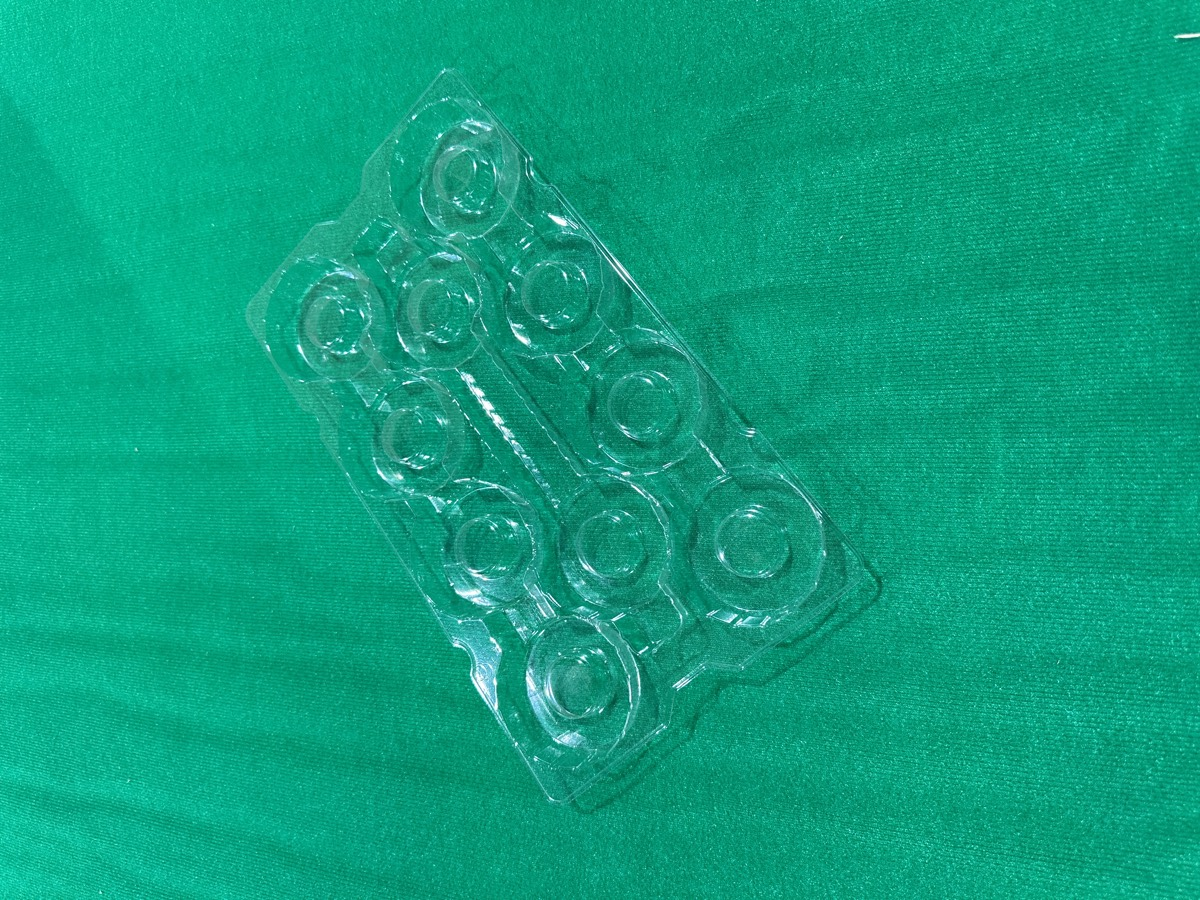
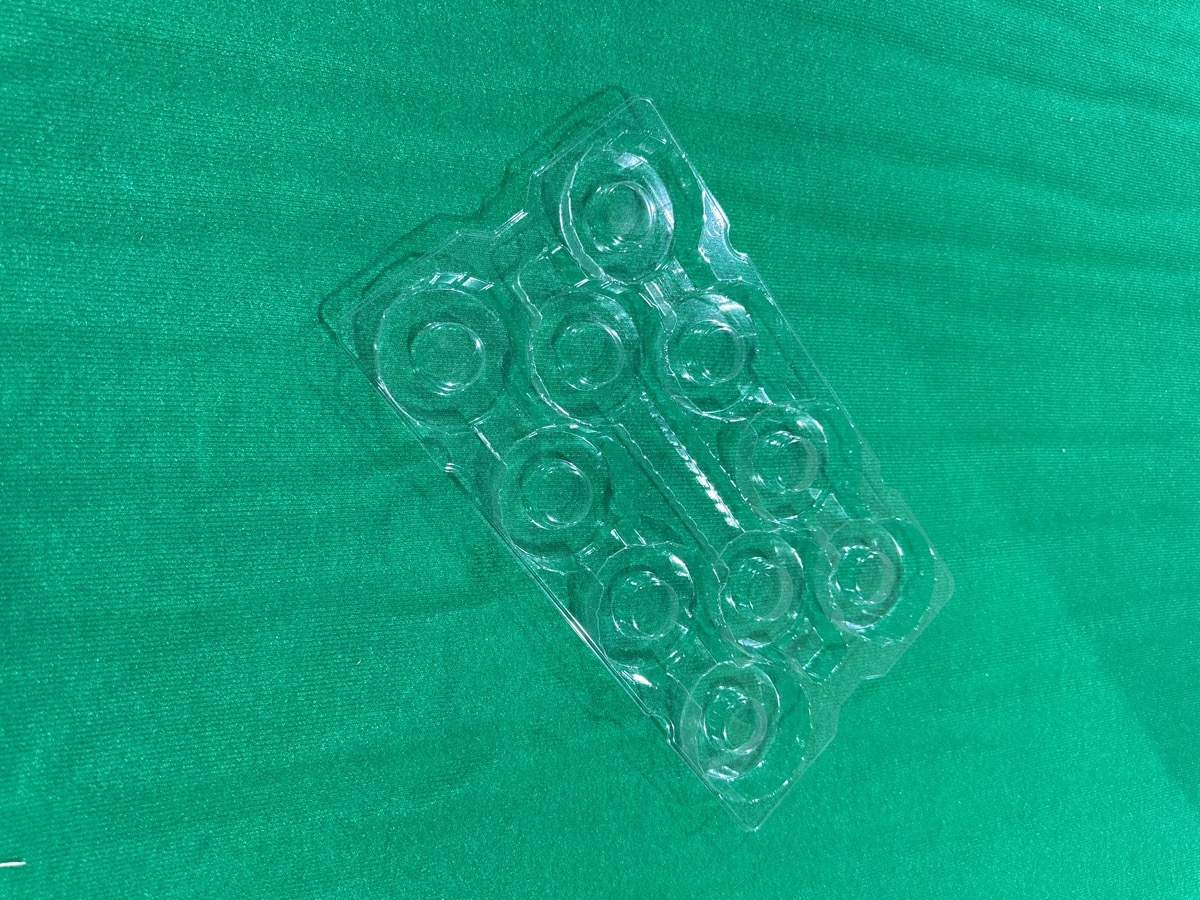
견적문의 문구 정리 + PET 부품 트레이(case-11) 180° 회전
- 견적문의 폼/메타에서 "평일·주말 언제든 답변드립니다." 삭제
- case-11.jpg 를 180° 회전해 트레이 방향 정상화

diff --git a/pages/contact.js b/pages/contact.js
@@ -10,7 +10,7 @@ export default function ContactPage() {
         <title>견적문의 | 일성테크 — 플라스틱 진공성형</title>
         <meta
           name="description"
-          content="일성테크 간략 견적 문의. 도면·요청사항을 남겨주시면 빠르게 검토 후 견적을 안내드립니다. 평일·주말 언제든 답변드립니다."
+          content="일성테크 간략 견적 문의. 도면·요청사항을 남겨주시면 빠르게 검토 후 견적을 안내드립니다."
         />
       </Head>
       <PageHero

diff --git a/components/home/QuoteForm.js b/components/home/QuoteForm.js
@@ -108,7 +108,6 @@ export default function QuoteForm() {
           <h2 className={s.title}>간략 견적 문의</h2>
           <p className={s.lead}>
             제작 품목·수량과 도면을 남겨주시면 빠르게 검토 후 견적을 안내드립니다.
-            평일·주말 언제든 답변드립니다.
           </p>
         </div>
 